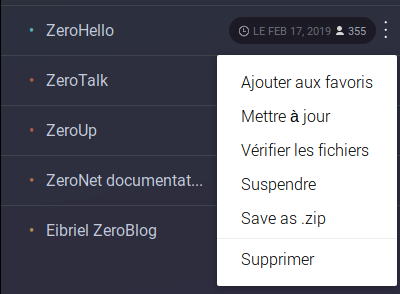
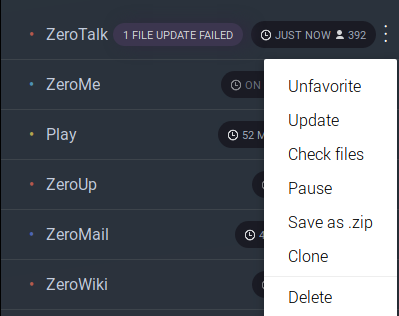
Added information on Zerohello page

diff --git a/zeronet.md b/zeronet.md
@@ -34,10 +34,72 @@ When Zeronet is currently updating a site you can follow its progress next to th
 ![Zeronet Menu Site](./img/zeronet-menu-site.png)
 
 You will also find a site menu that gives you access to the following actions :
-* Add to favorite - Quickly find your favorite site
-* Update - Look for update for the site
-* Verify files - Look at the files for this site and verify possible corrupted files
-*
+* **Favorite/Unfavorite** - Quickly find your favorite sites or remove from your favorite
+* **Update** - Look for update for the site
+* **Check files** - Look at the files for this site and verify possible corrupted files
+* **Pause** - Pause the updates for this site
+* **Save as .zip** - Save the site in archive
+* **Clone** - Clone this specific website (allow you to create your own version of it)
+* **Delete** - Delete the website
+
+#### Favorites sites
+
+A list of bookmark site which will show at the top of the menu.
+
+#### ZeroHello menu
+
+![Zeronet Hello Menu](./img/zeronet-hello-menu.png)
+
+This menu on ZeroHello page gives you access to some specific Zeronet functionalities.
+
+* **Update all sites** - Shortcut to query for updates for all the sites you are currently seeding
+* **Order sites by peers/update time/add time/size** - Orders sites in the side bar by numbers of peers, update time, add time or size
+* **Theme Light/Dark** - Change the theme color for the ZeroHello page
+* **Language** - Translate the Zeronet in the choosen language (will also load website in the selected language if available)
+* **Create new, empty site** - Create a new empty site for you
+* **Manage blocked users and sites** - Show you the list of blocked users and sites (see #name-of-the-section)
+* **Configuration** - Access to configuration page (see #name-of-the-section)
+* **Show data directory** - Open the Zeronet's data directory in your files explorer
+* **Version 0.6.5 (rev3840): Up to date!** - Update button
+* **Shut down ZeroNet** - Will shutdown Zeronet
+
+#### Files
+
+![Zeronet Files](./img/zeronet-files.png)
+
+It is possible to visualize all the optional files that you are sharing in the **files** section from the ZeroHello page.
+
+Those specific files are only downloaded when explicitly requested. They are files bigger than 1MB, they can be videos/audios/archive/etc...
+
+On the top right you will find information on how much of your hard drive Zeronet will use (by default 10% of your free space).
+
+![Zeronet Files Limit](./img/zeronet-files-limit.png)
+
+The first section **BigFiles** show you a list of all the optional files available on your system.
+
+![Zeronet Files BigFiles](./img/zeronet-files-bigfiles.png)
+
+You will find the following information :
+* **Site** - The name of the site which host this big file
+* **Optional File** - The name of the optional file; the `pinned` label inform you that they are going to be kept unless explicitly deleted by you. Otherwise a optional file can be removed from your system if your run out of space.
+* **Status** - Show the pourcentage downloaded
+* **Size** - The size of the file
+* **Peers** - Numbers of known peers seeding this file
+* **Uploaded** - Data uploaded to another peer
+* **Finished** - The date when you it has been added
+
+![Zeronet Files BigFiles Selected](./img/zeronet-files-bigfiles-selected.png)
+
+I you select a file a edit bar will show allowing you `pin/unpin` the file or to `delete` it from your system.
+
+The others sections are dedicated to each sites you have visited. It gives you information for each specific site and even allow you to **help distributing all the new files**. It will automatically download all the newly uploaded files to help make then easily available to other peers.
+
+![Zeronet Files Hubs](./img/zeronet-files-hubs.png)
+
+Next to the name you also have a score indicating how much you downloaded vs uploaded. It gives an idea of your participation to the network.
+
+#### Stats
+
 
 ### Tor
 
